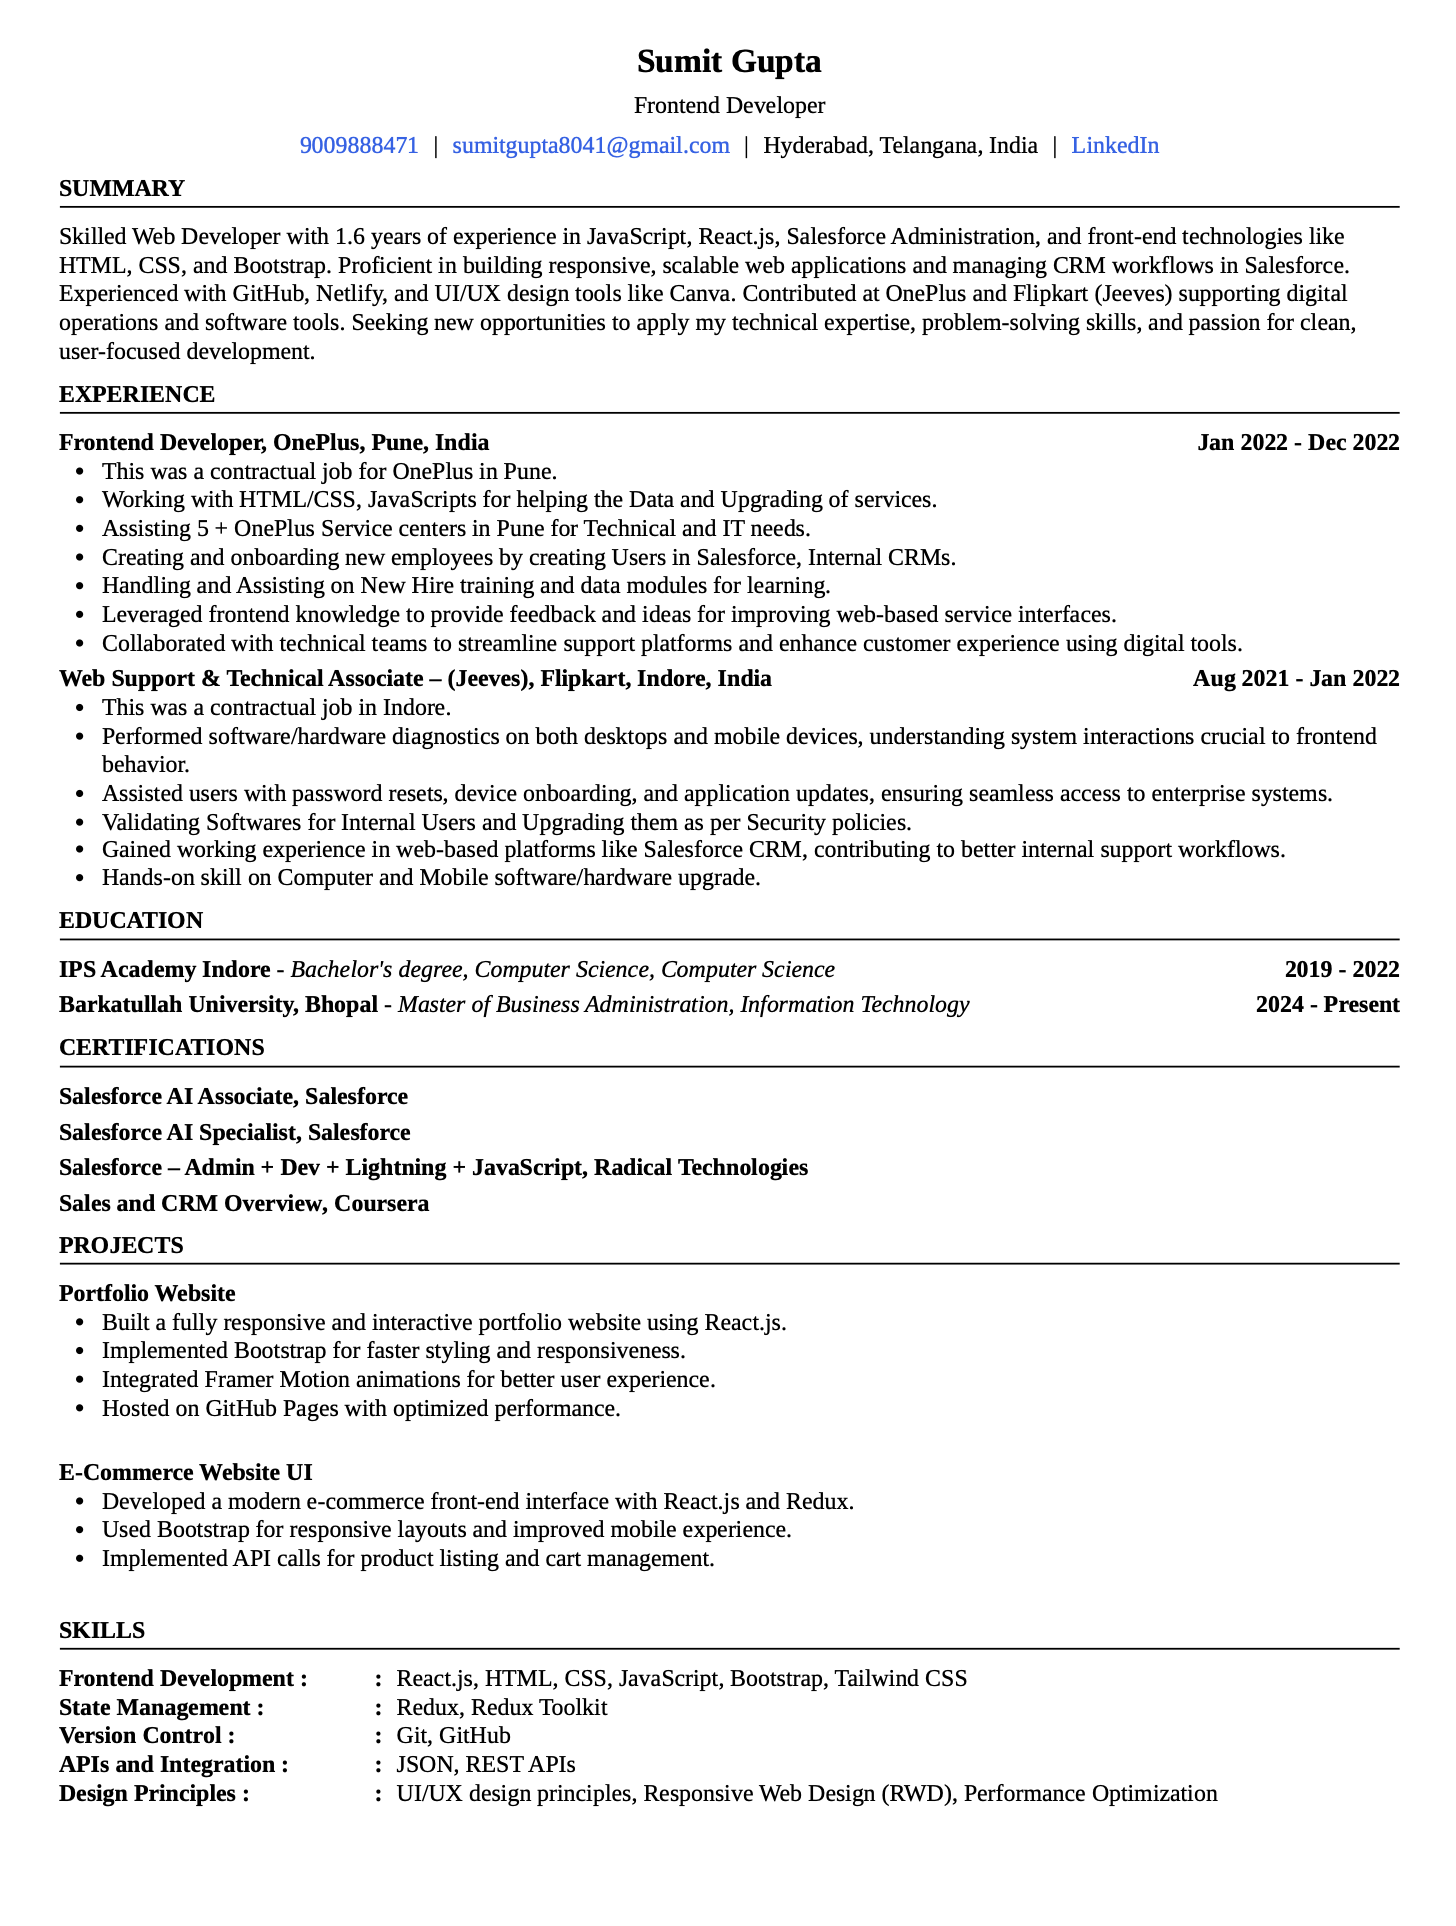
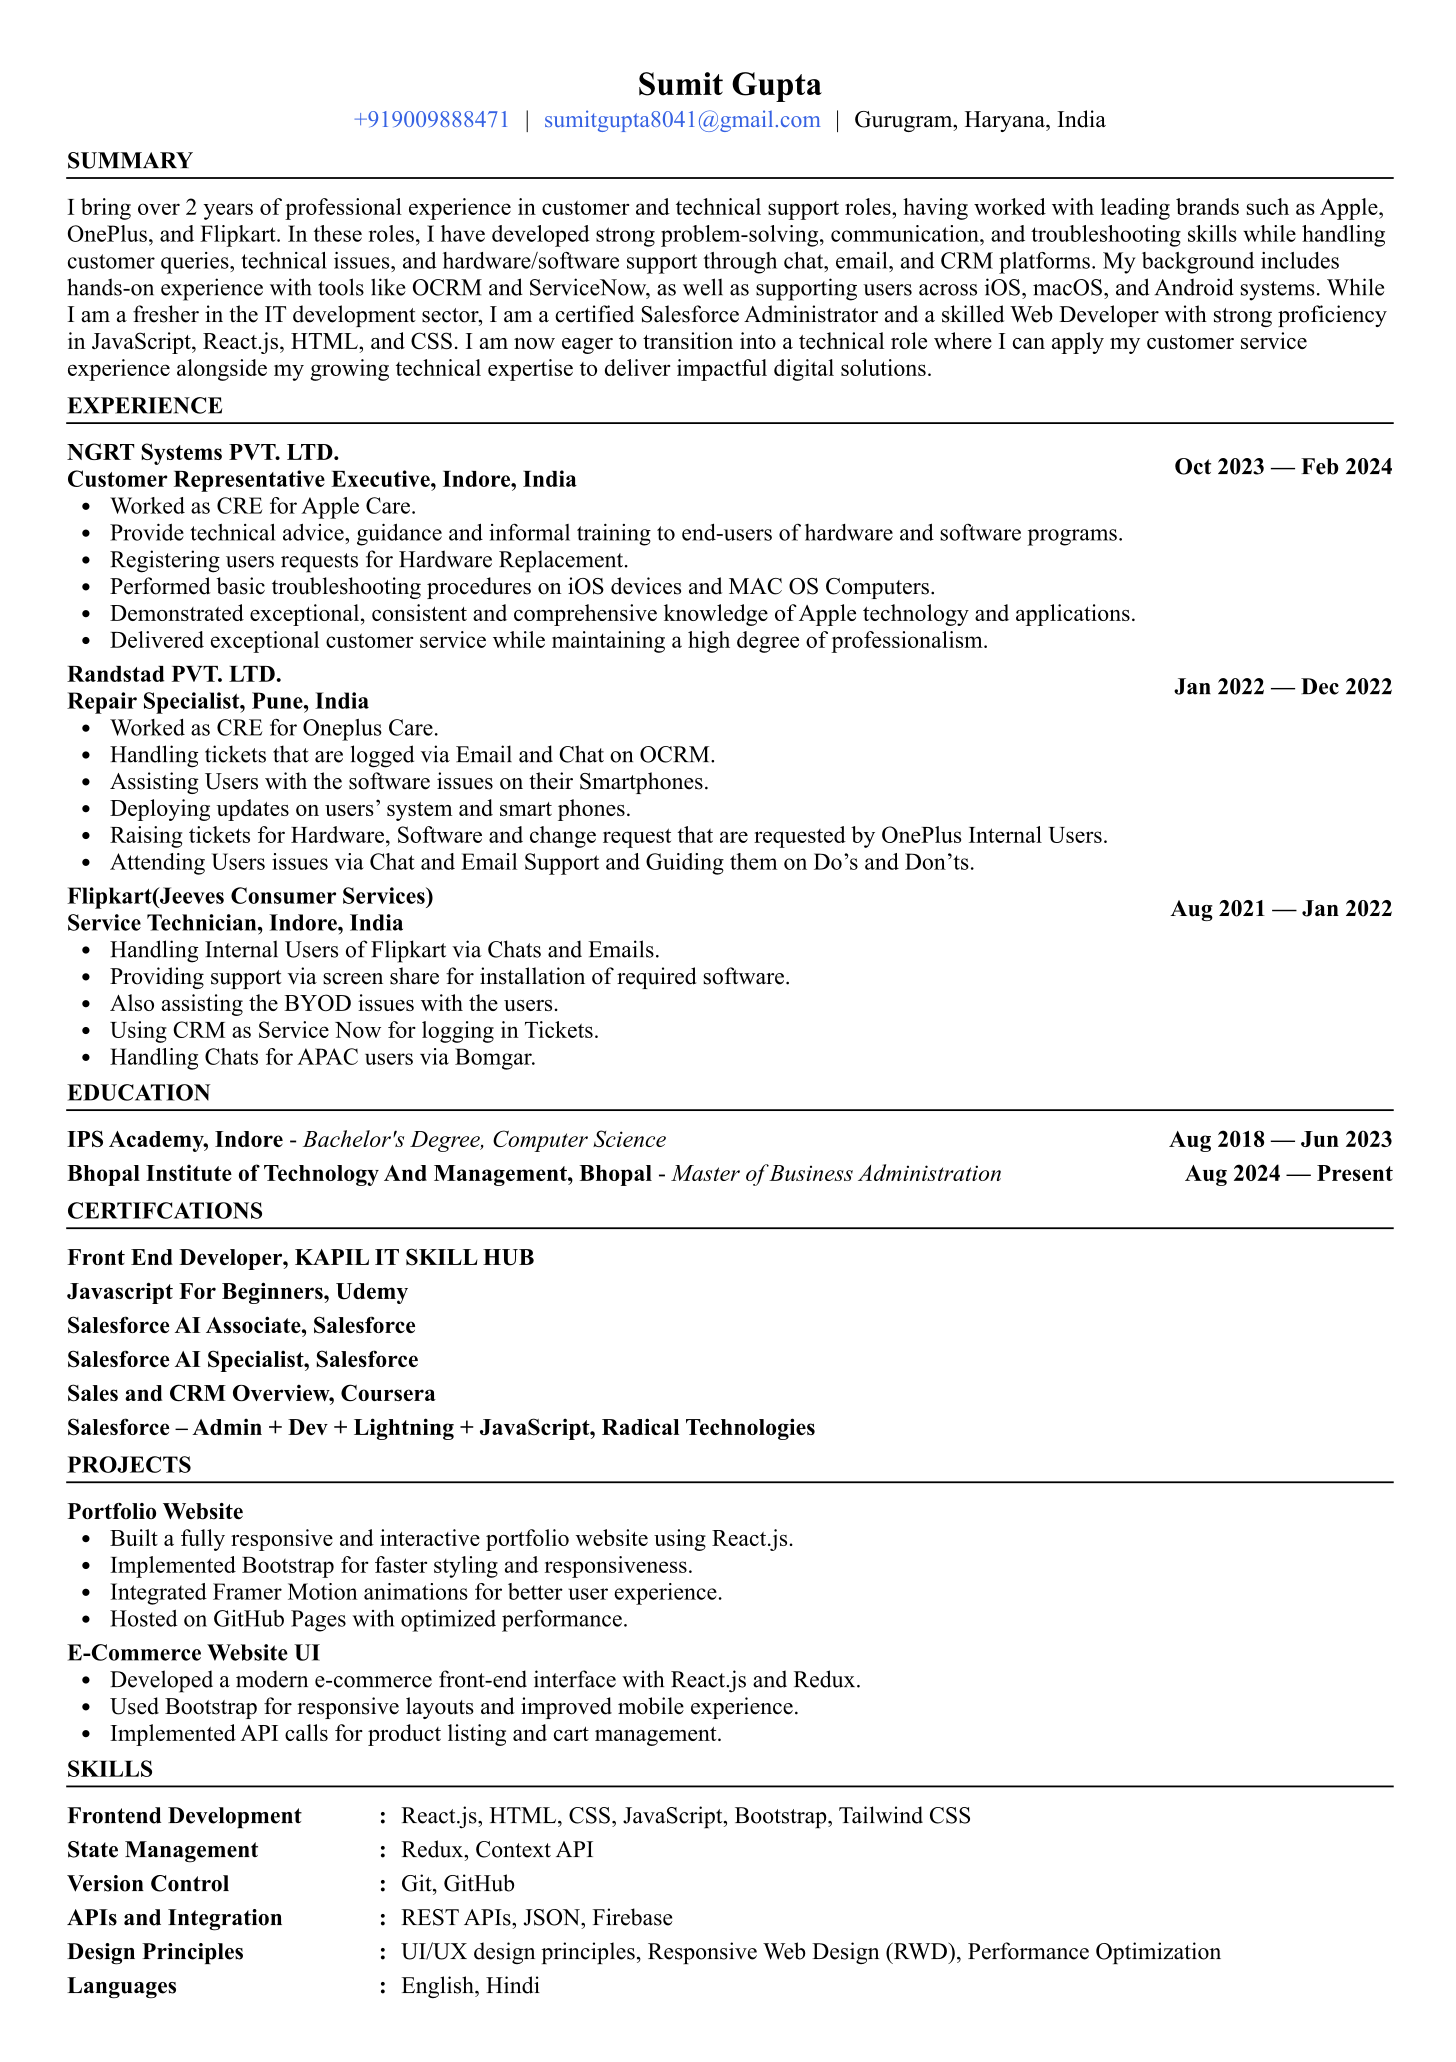
new update

diff --git a/src/components/ExperienceData.jsx b/src/components/ExperienceData.jsx
@@ -2,46 +2,43 @@
 import oneplus from "../assets/Oneplus.png";
 import Jeeves from "../assets/Jeeves.png";
 const ExperienceData = [
-  // {
-  //   // role: "Customer Representative Executive (Apple Care)",
-  //   // company: "NGRT Systems Pvt. Ltd.",
-  //   // description: [
-  //   //   "Worked as CRE for Apple Care.",
-  //   //   "Assisting Internal users with their questions on handling of technical queries which included HTML5 and handling users in Salesforce.",
-  //   //   "Working on GSX, Salesforce and MS Office applications for assisting internal users.",
-  //   //   "Handling and verifying Customers Claim for technical replacements.",
-  //   //   "Creating training and learning modules.",
-  //   //   "Overviewing all technical updates to IOS and Mac devices which were under inspection and repair.",
-  //   //   "Creating permission sets and reports as per demand for different departments.",
-  //   // ],
-  //   // dateRange: "Oct 2023 – Feb 2024",
-  //   // logo: ngrt,
-  // },
   {
-    role: "Frontend Developer",
+    role: "Customer Representative Executive (Apple Care)",
+    company: "NGRT Systems Pvt. Ltd.",
+    description: [
+      "Worked as CRE for Apple Care.",
+      "Provide technical advice, guidance and informal training to end-users of hardware and software programs.",
+      "Registering users requests for Hardware Replacement.",
+      "Performed basic troubleshooting procedures on iOS devices and MAC OS Computers.",
+      "Demonstrated exceptional, consistent and comprehensive knowledge of Apple technology and applications.",
+      "Delivered exceptional customer service while maintaining a high degree of professionalism.",
+    ],
+    dateRange: "Oct 2023 – Feb 2024",
+    logo: ngrt,
+  },
+  {
+    role: "Repair Specalist",
     company: "OnePlus",
     description: [
-      "This was a contractual job for OnePlus in Pune.",
-      "Working with HTML/CSS, JavaScripts for helping the Data and Upgrading of services.",
-      "Assisting 5 + OnePlus Service centers in Pune for Technical and IT needs.",
-      "Creating and onboarding new employees by creating Users in Salesforce, Internal CRMs.",
-      "Handling and Assisting on New Hire training and data modules for learning.",
-      "Leveraged frontend knowledge to provide feedback and ideas for improving web-based service interfaces.",
-      "Collaborated with technical teams to streamline support platforms and enhance customer experience using digital tools.",
+      "Worked as CRE for Oneplus Care.",
+      "Handling tickets that are logged via Email and Chat on OCRM.",
+      "Assisting Users with the software issues on their Smartphones.",
+      "Deploying updates on users’ system and smart phones.",
+      "Raising tickets for Hardware, Software and change request that are requested by OnePlus Internal Users.",
+      "Attending Users issues via Chat and Email Support and Guiding them on Do’s and Don’ts.",
     ],
     dateRange: "Jan 2022 - Dec 2022",
     logo: oneplus,
   },
   {
-    role: "Web Support & Technical Associate - (Jeeves)",
+    role: "Service Technician - (Jeeves)",
     company: "Flipkart",
     description: [
-      "This was a contractual job in Indore.",
-      "Performed software/hardware diagnostics on both desktops and mobile devices, understanding system interactions crucial to frontend behavior.",
-      "Assisted users with password resets, device onboarding, and application updates, ensuring seamless access to enterprise systems.",
-      "Validating Softwares for Internal Users and Upgrading them as per Security policies.",
-      "Gained working experience in web-based platforms like Salesforce CRM, contributing to better internal support workflows.",
-      "Hands-on skill on Computer and Mobile software/hardware upgrade.",
+      "Handling Internal Users of Flipkart via Chats and Emails.",
+      "Providing support via screen share for installation of required software.",
+      "Also assisting the BYOD issues with the users.",
+      "Using CRM as Service Now for logging in Tickets.",
+      "Handling Chats for APAC users via Bomgar.,",
     ],
     dateRange: "Aug 2021 - Jan 2022",
     logo: Jeeves,

diff --git a/src/components/AboutSection.jsx b/src/components/AboutSection.jsx
@@ -52,34 +52,31 @@ const AboutSection = () => {
           {/* Left-hand side */}
           <div className="md:w-1/2 mb-6 md:mb-0 animate-left">
             <p className="text-lg mb-4 first-line:uppercase first-line:tracking-widest first-letter:text-7xl first-letter:font-bold first-letter:mr-3 first-letter:float-left dark:first-letter:text-white first-letter:text-gray-900">
-              Hi, I am a skilled and motivated Web Developer with 1.6 years of
-              hands-on experience in JavaScript, React.js, Salesforce
-              Administration, HTML/CSS, and modern front end development
-              frameworks. Over the course of my career, I have developed a
-              strong foundation in web development, CRM management, and user
-              interface design, with a focus on building dynamic, scalable, and
-              user-friendly solutions.
+              Hi, I bring over 2 years of professional experience in customer
+              and technical support roles, having worked with leading brands
+              such as Apple, OnePlus, and Flipkart. In these roles, I have
+              developed strong problem-solving, communication, and
+              troubleshooting skills while handling customer queries, technical
+              issues, and hardware/software support through chat, email, and CRM
+              platforms. My background includes hands-on experience with tools
+              like OCRM and ServiceNow, as well as supporting users across iOS,
+              macOS, and Android systems. While I am a fresher in the IT
+              development sector, I am a certified Salesforce Administrator and
+              a skilled Web Developer with strong proficiency in JavaScript,
+              React.js, HTML, and CSS. I am now eager to transition into a
+              technical role where I can apply my customer service experience
+              alongside my growing technical expertise to deliver impactful
+              digital solutions.
             </p>
             <p className="text-lg mb-4">
-              Motivated and detail-oriented Web Developer & Salesforce
-              Administrator with 1.6 years of hands-on experience in building
-              dynamic, scalable, and user-focused digital solutions. Skilled in
-              JavaScript, React.js, HTML5, CSS3, and Bootstrap, with a strong
-              command over responsive design and component-based architecture.
-              Proficient in customizing and managing Salesforce CRM, including
-              data handling, object customization, and workflow automation to
-              optimize productivity and align with business needs. Experienced
-              in version control using Git/GitHub, and adept at deploying
-              projects via Netlify and GitHub Pages. Competent in using Canva
-              for UI/UX mockups and front-end design planning. Past
-              contributions at OnePlus and Flipkart (Jeeves Consumer Services)
-              involved supporting digital operations, assisting users with
-              software/cloud tools like Salesforce and MS Office, and improving
-              internal user interface experiences. Currently seeking a
-              challenging opportunity to contribute technical expertise, clean
-              coding practices, and a customer-centric mindset to
-              forward-thinking teams focused on delivering seamless web
-              experiences.
+              Currently transitioning into the IT development sector as a
+              certified Salesforce Administrator and skilled Web Developer.
+              Technically proficient in JavaScript, React.js, HTML5, and CSS3,
+              with experience in building responsive, user-centric web
+              applications and UI designs using tools like Canva, GitHub, and
+              Netlify. Eager to contribute my blend of customer support
+              expertise and growing technical skills to a forward-thinking
+              organization focused on delivering seamless digital solutions.
             </p>
             <div className="flex space-x-4 mt-4">
               <button

diff --git a/src/components/CertificateSlider.jsx b/src/components/CertificateSlider.jsx
@@ -8,7 +8,7 @@ import SF_O from "../assets/SF_O.png";
 import SF_Admin from "../assets/SF_Admin.png";
 import JS from "../assets/JS.png";
 import SEO from "../assets/SEO.png";
-import MYSQL from "../assets/MYSQL.png";
+import KISH from "../assets/Kish.png";
 // import javafull from '../assets/javafull.jpg';
 // import postgreSQL from '../assets/postgreSQL.jpg';
 // import pythonds from '../assets/Pythonds.jpg';
@@ -23,7 +23,7 @@ const certificates = [
   { image: SF_Admin },
   { image: JS },
   { image: SEO },
-  { image: MYSQL },
+  { image: KISH },
   //   { image: javafull },
   //   { image: postgreSQL },
   //   { image: pythonds },

diff --git a/src/components/ResumeModel.jsx b/src/components/ResumeModel.jsx
@@ -1,5 +1,5 @@
 import React from "react";
-import resumeImage from "../assets/resume.png";
+import resumeImage from "../assets/Resume.png";
 
 // Import your resume image
 
